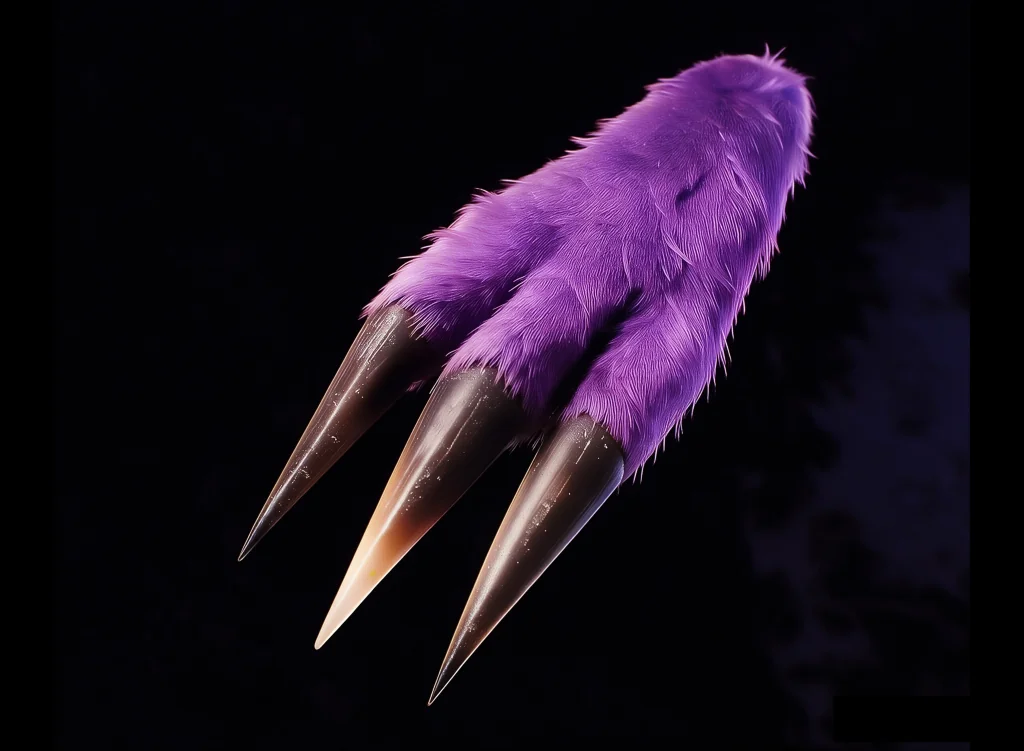
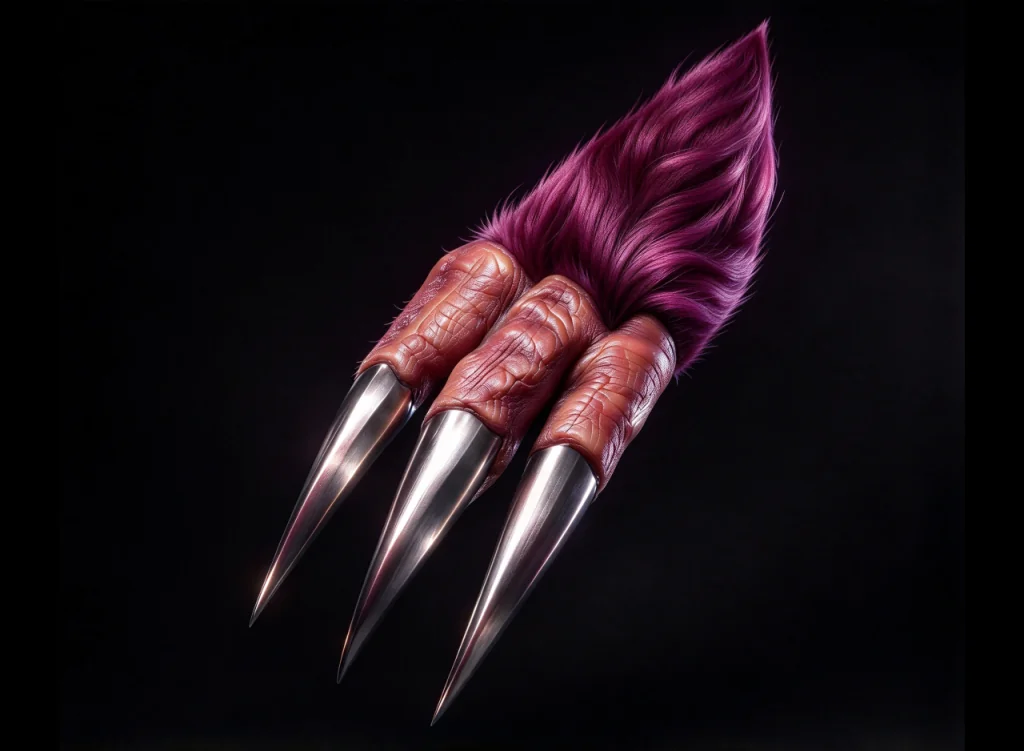
Replace Booma-family claw HD artwork with supplied images

Changed region(s): [[0.2188, 0.0306, 0.8125, 0.98], [0.875, 0.4288, 0.9688, 0.735], [0.9375, 0.2756, 0.9688, 0.3369]]

diff --git a/docs/ITEM_CATALOG.md b/docs/ITEM_CATALOG.md
@@ -221,14 +221,14 @@ as separate models.
 
 ## Updating the data
 
-### HD detail images and naming (updated 2026-09-29)
+### HD detail images and naming (updated 2026-10-03)
 
 `content/item-catalog/hd-gallery.json` accounts for 608 source images: the original
 606-image 高清图库 collection with four images replaced by the supplied 替换.zip
 artwork and 14 shield images replaced by the supplied 盾牌替换 collection,
 plus one subsequently supplied SOF image and one TypeGU/Mechgun image. Later
-individual corrections replace the Silence Claw, Gi Gue Bazooka and Red Dagger
-sources as recorded below.
+individual corrections replace the Silence Claw, Gi Gue Bazooka, Red Dagger
+and three Booma-family claw sources as recorded below.
 SHA-256 comparison reduces these to 554 unique assets; the manifest records the current source paths,
 dimensions, sizes and checksums.
 On 2026-09-29, visual comparison against the standard item thumbnails confirmed
@@ -238,6 +238,39 @@ Booma's Claw is brown-red, Gobooma's Claw is yellow. Gigobooma's Claw remains
 purple. The source inventory and HD image counts are unchanged. The regression
 failed before the correction and passed afterward; all 27 item tests and the
 production build passed (3,802 routes, 135 event fragments).
+
+On 2026-10-03 the maintainer supplied three replacement images and explicitly
+identified them, in order, as Booma's Claw (brown), Gobooma's Claw (gold) and
+Gigobooma's Claw (purple). The three canonical HD paths remain
+`items/boomas-claw.webp`, `items/goboomas-claw.webp` and
+`items/gigoboomas-claw.webp`. Each supplied PNG is 1280 × 938; encoding with
+`cwebp -q 85 -m 6 -resize 1024 0` produces 1024 × 751 WebPs of 37,278,
+38,644 and 36,248 bytes respectively. The manifest and identity regression
+record the new source and published checksums. Standard thumbnails and item
+names are unchanged.
+
+For full regeneration, remove the three old `WEAPON/EP1+2/` sources named
+`BOOMA'S CLAW.png`, `GOBOOMA'S CLAW.png` and `GIGOBOOMA'S CLAW.png` from the
+assembled working copy. Place the new files under
+`User-provided corrections/2026-10-03/` using these exact bindings:
+
+| Item | Supplied source filename |
+| --- | --- |
+| Booma's Claw | `4ec9aec551130f34bc0c62c4c64712b8.png` |
+| Gobooma's Claw | `da606bc27414598e7a276102e7aabef3.png` |
+| Gigobooma's Claw | `fa3bbcf2d994d956587ade19ef6e2542.png` |
+
+These are replacements; the source inventory and HD image counts are unchanged.
+Local `npm run release:prepare` passed the complete business-test suite, the
+production build (3,802 routes and 135 fragments), and all 4,139 browser tests.
+Additional checks verified the exact served image bytes and HD/standard switch
+on all nine item/language detail pages. The encoded artwork and English detail
+previews were visually reviewed, and an independent source/identity review
+found no remaining issues.
+The maintainer accepted the previews and authorized documentation alignment,
+commit and push on 2026-10-03. Publication is tracked by the matching Pages run
+in the [release record](DEPLOYMENT.md#october-3-2026-booma-family-claw-hd-artwork).
+
 The detail generator consumes only verified direct `itemIds`: 409 optimized
 images cover 415 details. The `hdImage` field is emitted only in per-item detail
 data; the searchable list uses small equipment thumbnails instead of full-size HD files.
@@ -430,7 +463,7 @@ manifests or changed output bytes before writing any images, then removes retire
 WebPs from its owned destination directory. Regenerate the prepared gallery after
 changing the naming manifest; do not rename prepared files manually.
 They preserve aspect ratio at 1024-pixel width with lossy WebP quality 85,
-totaling 15,393,220 bytes. The detail frame displays them at up to 512 CSS pixels,
+totaling 15,358,468 bytes. The detail frame displays them at up to 512 CSS pixels,
 providing enough pixels for a 2× display at that size. This is optimized web
 artwork, not a lossless archival copy; enlarging it cannot retain the detail of
 the original roughly 5,000-pixel images. Downloaded originals are unchanged.

diff --git a/docs/DEPLOYMENT.md b/docs/DEPLOYMENT.md
@@ -37,6 +37,27 @@ and operating-system metadata before `_site` is published atomically. The source
 test gate separately rejects malformed HTML, unresolved relative content links
 and invalid material-plan presets.
 
+## October 3, 2026 Booma-family claw HD artwork
+
+The maintainer supplied and identified replacement HD artwork for Booma's Claw
+(brown), Gobooma's Claw (gold) and Gigobooma's Claw (purple), reviewed the detail
+previews, and authorized documentation alignment, commit and push on 2026-10-03.
+The three canonical WebPs, source provenance and identity checksums were updated.
+The [item catalog record](ITEM_CATALOG.md#hd-detail-images-and-naming-updated-2026-10-03)
+documents the exact source bindings and regeneration procedure.
+
+Local `npm run release:prepare` passed all business tests, the production build
+(3,802 routes, 135 fragments and 999,893 / 1,000,000 JavaScript gzip bytes), and
+all 4,139 browser tests before push. Additional browser checks verified the
+served image bytes, successful image decoding and HD/standard switching on all
+nine item/language detail pages. Visual inspection and independent review passed.
+The published HD inventory remains 409 images for 415 item details, totaling
+15,358,468 bytes. Item names, standard thumbnails and application code are unchanged.
+
+Acceptance and push authorization are complete. Publication is confirmed by the
+matching revision's successful build, all three browser-test shards and Pages
+deploy job; local validation alone does not establish deployment.
+
 ## October 3, 2026 paired Mechguns and three-language item names
 
 The maintainer reviewed and accepted the desktop/mobile item list, the ES and
@@ -82,7 +103,11 @@ from the manual calculation. The original exact reload comparison remains.
 Related snapshots now wait for sorted/selected Combo rows and updated Status
 stat cells. No production code, calculation, timeout or retry setting changed.
 All 11 state tests passed five consecutive repetitions with two workers
-(55/55). Publication still requires the follow-up revision's complete Pages run.
+(55/55), followed by the complete local browser suite (4,139/4,139).
+The follow-up `6480bd1` passed the build, all three browser-test shards and Pages
+deployment in [run 37091667935](https://github.com/ephinea4haven/ephinea4haven.github.io/actions/runs/37091667935).
+Live checks confirmed all seven paired Mechgun thumbnails matched the committed
+bytes and all three language editions displayed primary and secondary item names.
 
 ## October 2, 2026 search, development and bug-fix release
 
